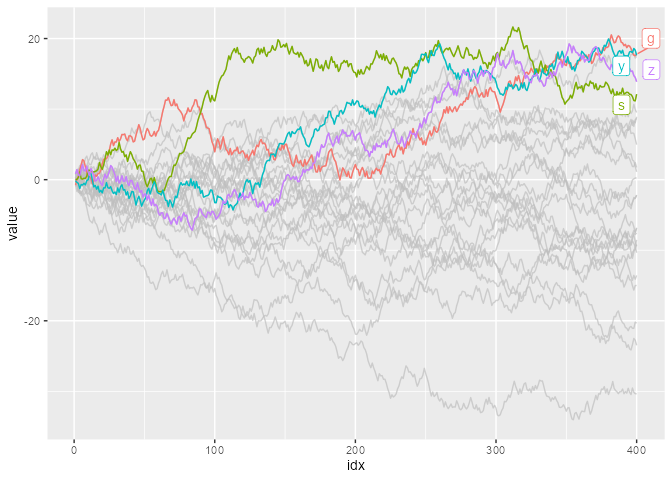
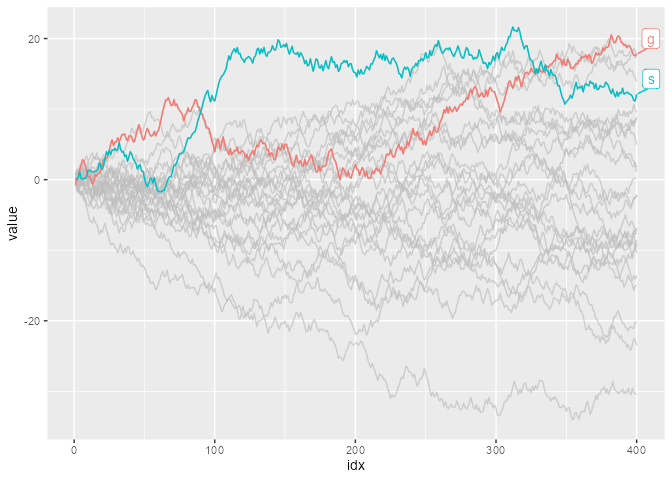
Use the same example as the vignette

diff --git a/README.md b/README.md
@@ -47,7 +47,7 @@ library(gghighlight)
 
 p <- ggplot(d) +
   geom_line(aes(idx, value, colour = type)) +
-  gghighlight(max(value) > 19)
+  gghighlight(max(value) > 20)
 #> label_key: type
 
 p
